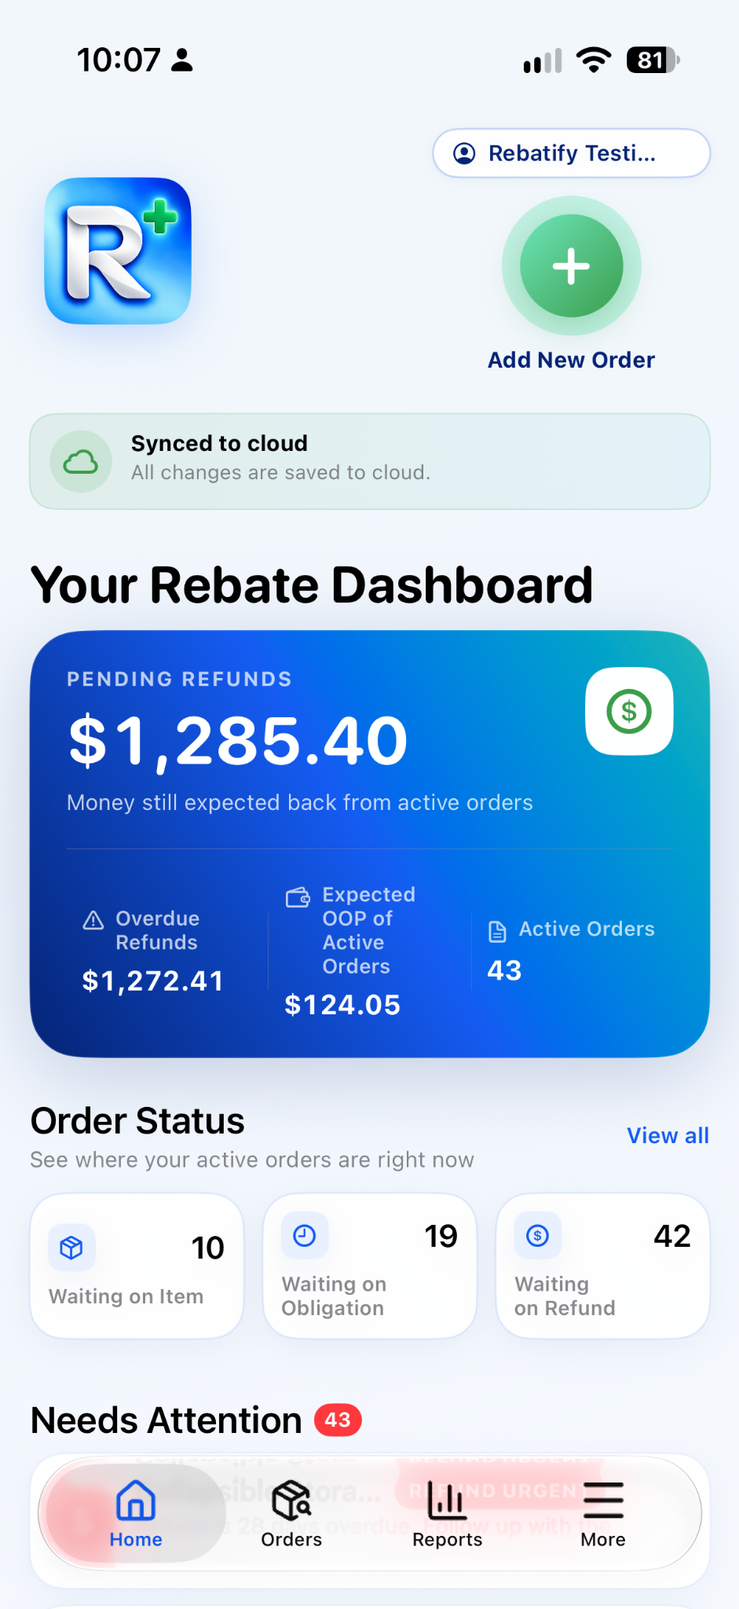
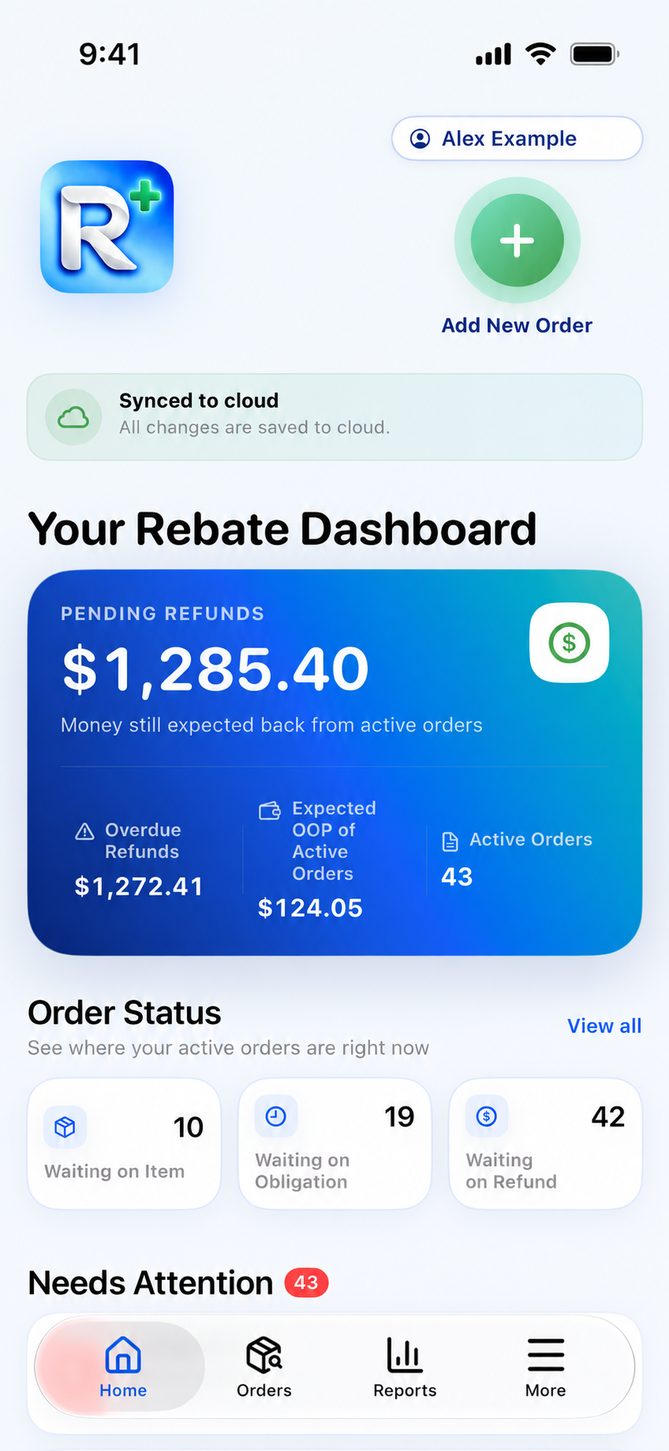
Add files via upload

diff --git a/beta-portal.html b/beta-portal.html
@@ -8,13 +8,13 @@
 <meta content="noindex,nofollow,noarchive,nosnippet" name="robots"/>
 <meta content="noindex,nofollow,noarchive,nosnippet" name="googlebot"/>
 <title>RebataTrack Beta Portal</title>
-<link href="app-icon.png?v=115" rel="icon"/><link href="apple-touch-icon.png?v=110" rel="apple-touch-icon"/><link href="favicon-32.png?v=110" rel="icon" sizes="32x32"/><link href="favicon-16.png?v=110" rel="icon" sizes="16x16"/>
+<link href="app-icon.png?v=118" rel="icon"/><link href="apple-touch-icon.png?v=110" rel="apple-touch-icon"/><link href="favicon-32.png?v=110" rel="icon" sizes="32x32"/><link href="favicon-16.png?v=110" rel="icon" sizes="16x16"/>
 <link href="styles.css?v=110" rel="stylesheet"/>
 </head>
 <body class="portal-body">
 <header class="portal-header">
 <div class="wrap portal-nav">
-<div class="portal-brand"><img alt="RebataTrack app icon" src="app-icon.png?v=115"/><div><strong>RebataTrack</strong><span>Beta Portal</span></div></div>
+<div class="portal-brand"><img alt="RebataTrack app icon" src="app-icon.png?v=118"/><div><strong>RebataTrack</strong><span>Beta Portal</span></div></div>
 <a class="portal-settings-link" href="beta-settings.html"><svg aria-hidden="true" class="portal-control-icon" viewBox="0 0 24 24"><circle cx="12" cy="12" r="3"/><path d="M19.4 15a1.8 1.8 0 0 0 .36 1.98l.06.06-2.78 2.78-.06-.06A1.8 1.8 0 0 0 15 19.4a1.8 1.8 0 0 0-1 .6 1.8 1.8 0 0 0-.4 1.2V21H9.6v-.08a1.8 1.8 0 0 0-.4-1.2 1.8 1.8 0 0 0-1-.6 1.8 1.8 0 0 0-1.98.36l-.06.06-2.78-2.78.06-.06A1.8 1.8 0 0 0 3.8 15a1.8 1.8 0 0 0-.6-1 1.8 1.8 0 0 0-1.2-.4H2V9.6h.08a1.8 1.8 0 0 0 1.2-.4 1.8 1.8 0 0 0 .6-1 1.8 1.8 0 0 0-.36-1.98l-.06-.06 2.78-2.78.06.06A1.8 1.8 0 0 0 8.2 3.8a1.8 1.8 0 0 0 1-.6 1.8 1.8 0 0 0 .4-1.2V2h4v.08a1.8 1.8 0 0 0 .4 1.2 1.8 1.8 0 0 0 1 .6 1.8 1.8 0 0 0 1.98-.36l.06-.06 2.78 2.78-.06.06A1.8 1.8 0 0 0 19.4 8.2a1.8 1.8 0 0 0 .6 1 1.8 1.8 0 0 0 1.2.4H21v4h-.08a1.8 1.8 0 0 0-1.2.4 1.8 1.8 0 0 0-.32 1Z"/></svg><span>Settings</span></a><button class="portal-logout" id="portalLogout" type="button"><svg aria-hidden="true" class="portal-control-icon" viewBox="0 0 24 24"><path d="M10 5H5a2 2 0 0 0-2 2v10a2 2 0 0 0 2 2h5"/><path d="m15 8 4 4-4 4M19 12H9"/></svg><span>Sign Out</span></button>
 </div>
 </header><nav aria-label="Beta Portal sections" class="portal-mobile-nav"><div class="wrap portal-mobile-nav-scroll">
@@ -83,25 +83,25 @@
 <section class="section portal-howto-section" id="how-to"><div class="wrap">
 <div class="portal-section-heading"><div><div class="kicker">How To</div><h2>Quick RebataTrack guides.</h2><p class="lead portal-howto-lead">Open only the guide you need.</p></div></div>
 <div class="portal-howto-accordion">
-<details class="portal-guide"><summary><span>Orders</span><strong>How do I add a new order?</strong></summary><div class="portal-guide-body"><img alt="RebataTrack Orders screen showing Add New Order and Record a Multi-Order Refund" src="orders-preview.png?v=115"/><ol><li>Open <strong>Orders</strong> from the bottom navigation.</li><li>Tap <strong>Add New Order</strong>.</li><li>Enter the purchase and rebate information, then save the order.</li></ol><p>The Orders screen is also where you can search existing orders and start a multi-order refund.</p></div></details>
-<details class="portal-guide"><summary><span>Order Details</span><strong>How do I review or update an order?</strong></summary><div class="portal-guide-body"><img alt="RebataTrack Order Details screen" src="order-detail-preview.png?v=115"/><ol><li>Open <strong>Orders</strong>.</li><li>Tap the order you want to review.</li><li>Use Order Details to review its timeline, amounts, status, and next action.</li></ol></div></details>
-<details class="portal-guide"><summary><span>Refunds</span><strong>How do I record a refund?</strong></summary><div class="portal-guide-body"><img alt="RebataTrack Record Refund screen" src="refund-preview.png?v=115"/><ol><li>Open the applicable order.</li><li>Scroll to <strong>Record Refund</strong>.</li><li>Enter the refund amount and optional transaction ID, then record it.</li></ol><p>If only part of the expected refund has arrived, RebataTrack keeps the remaining balance visible while the order workflow continues.</p></div></details>
-<details class="portal-guide"><summary><span>Reports · RebataTrack+</span><strong>How do I see what I have spent or received?</strong></summary><div class="portal-guide-body"><img alt="RebataTrack Reports screen" src="reports-plus-preview.png?v=115"/><ol><li>Tap <strong>Reports</strong>.</li><li>Choose the period or report you want to review.</li><li>Use the totals and breakdowns to understand spending, refunds, and Out Of Pocket Expense.</li></ol><p><strong>Reports is a RebataTrack+ perk.</strong> If you do not have RebataTrack+ active yet, activate it first to unlock the full Reports experience shown here.</p></div></details>
-<details class="portal-guide"><summary><span>Shared Profiles · RebataTrack+</span><strong>How do I use a shared profile?</strong></summary><div class="portal-guide-body"><img alt="RebataTrack Shared Profiles screen" src="sharing-plus-preview.png?v=115"/><ol><li>Open <strong>More</strong>.</li><li>Open <strong>Shared Profiles</strong>.</li><li>Create or join the appropriate shared profile, then follow the on-screen invitation flow.</li></ol><p><strong>Shared Profiles is a RebataTrack+ perk.</strong> You will need RebataTrack+ activated to use shared-profile features and invitations.</p></div></details>
+<details class="portal-guide"><summary><span>Orders</span><strong>How do I add a new order?</strong></summary><div class="portal-guide-body"><img alt="RebataTrack Orders screen showing Add New Order and Record a Multi-Order Refund" src="orders-preview.png?v=118"/><ol><li>Open <strong>Orders</strong> from the bottom navigation.</li><li>Tap <strong>Add New Order</strong>.</li><li>Enter the purchase and rebate information, then save the order.</li></ol><p>The Orders screen is also where you can search existing orders and start a multi-order refund.</p></div></details>
+<details class="portal-guide"><summary><span>Order Details</span><strong>How do I review or update an order?</strong></summary><div class="portal-guide-body"><img alt="RebataTrack Order Details screen" src="order-detail-preview.png?v=118"/><ol><li>Open <strong>Orders</strong>.</li><li>Tap the order you want to review.</li><li>Use Order Details to review its timeline, amounts, status, and next action.</li></ol></div></details>
+<details class="portal-guide"><summary><span>Refunds</span><strong>How do I record a refund?</strong></summary><div class="portal-guide-body"><img alt="RebataTrack Record Refund screen" src="refund-preview.png?v=118"/><ol><li>Open the applicable order.</li><li>Scroll to <strong>Record Refund</strong>.</li><li>Enter the refund amount and optional transaction ID, then record it.</li></ol><p>If only part of the expected refund has arrived, RebataTrack keeps the remaining balance visible while the order workflow continues.</p></div></details>
+<details class="portal-guide"><summary><span>Reports · RebataTrack+</span><strong>How do I see what I have spent or received?</strong></summary><div class="portal-guide-body"><img alt="RebataTrack Reports screen" src="reports-plus-preview.png?v=118"/><ol><li>Tap <strong>Reports</strong>.</li><li>Choose the period or report you want to review.</li><li>Use the totals and breakdowns to understand spending, refunds, and Out Of Pocket Expense.</li></ol><p><strong>Reports is a RebataTrack+ perk.</strong> If you do not have RebataTrack+ active yet, activate it first to unlock the full Reports experience shown here.</p></div></details>
+<details class="portal-guide"><summary><span>Shared Profiles · RebataTrack+</span><strong>How do I use a shared profile?</strong></summary><div class="portal-guide-body"><img alt="RebataTrack Shared Profiles screen" src="sharing-plus-preview.png?v=118"/><ol><li>Open <strong>More</strong>.</li><li>Open <strong>Shared Profiles</strong>.</li><li>Create or join the appropriate shared profile, then follow the on-screen invitation flow.</li></ol><p><strong>Shared Profiles is a RebataTrack+ perk.</strong> You will need RebataTrack+ activated to use shared-profile features and invitations.</p></div></details>
 <details class="portal-guide portal-upgrade-guide"><summary><span>RebataTrack+</span><strong>How do I upgrade to RebataTrack+?</strong></summary><div class="portal-guide-body">
 <p class="upgrade-guide-intro">Use the path that matches what you see in RebataTrack. The screenshots below are from the iPhone app; Android follows the same RebataTrack+ flow and completes the purchase through Google Play instead of the App Store.</p>
 <div class="upgrade-path-card">
 <div class="upgrade-path-copy"><span class="upgrade-path-badge">Trial still active</span><h3>Open More and choose View Plans.</h3><ol><li>Tap <strong>More</strong> in the bottom navigation.</li><li>Find the <strong>RebataTrack+</strong> card and tap <strong>View Plans</strong>.</li><li>Choose <strong>Monthly</strong> or <strong>Annual</strong>.</li><li>Confirm the purchase using the App Store or Google Play purchase sheet.</li></ol></div>
-<div class="upgrade-guide-gallery two"><figure><a href="rebatatrack-plus-view-plans.png?v=115" target="_blank" rel="noopener"><img alt="RebataTrack More screen with the RebataTrack+ card and View Plans button" src="rebatatrack-plus-view-plans.png?v=115"/></a><figcaption>More → RebataTrack+ → View Plans</figcaption></figure><figure><a href="rebatatrack-plus-plan-picker.png?v=115" target="_blank" rel="noopener"><img alt="RebataTrack+ upgrade screen showing monthly and annual subscription choices" src="rebatatrack-plus-plan-picker.png?v=115"/></a><figcaption>Choose the plan you want to purchase.</figcaption></figure></div>
+<div class="upgrade-guide-gallery two"><figure><a href="rebatatrack-plus-view-plans.png?v=118" target="_blank" rel="noopener"><img alt="RebataTrack More screen with the RebataTrack+ card and View Plans button" src="rebatatrack-plus-view-plans.png?v=118"/></a><figcaption>More → RebataTrack+ → View Plans</figcaption></figure><figure><a href="rebatatrack-plus-plan-picker.png?v=118" target="_blank" rel="noopener"><img alt="RebataTrack+ upgrade screen showing monthly and annual subscription choices" src="rebatatrack-plus-plan-picker.png?v=118"/></a><figcaption>Choose the plan you want to purchase.</figcaption></figure></div>
 </div>
 <div class="upgrade-path-card expired">
 <div class="upgrade-path-copy"><span class="upgrade-path-badge">Trial already ended</span><h3>Choose a plan directly from the trial-ended screen.</h3><ol><li>On <strong>Your RebataTrack trial has ended</strong>, scroll to <strong>Available RebataTrack+ Subscriptions</strong>.</li><li>Tap <strong>Monthly</strong> or <strong>Annual</strong>.</li><li>Confirm the purchase through the App Store or Google Play.</li><li>If you already purchased RebataTrack+ but access is not showing, use <strong>Restore Purchases</strong>.</li></ol></div>
-<div class="upgrade-guide-gallery single"><figure><a href="rebatatrack-plus-trial-ended.png?v=115" target="_blank" rel="noopener"><img alt="RebataTrack trial-ended screen showing available RebataTrack+ subscription choices" src="rebatatrack-plus-trial-ended.png?v=115"/></a><figcaption>When the trial has ended, the plan choices are available on the lock screen.</figcaption></figure></div>
+<div class="upgrade-guide-gallery single"><figure><a href="rebatatrack-plus-trial-ended.png?v=118" target="_blank" rel="noopener"><img alt="RebataTrack trial-ended screen showing available RebataTrack+ subscription choices" src="rebatatrack-plus-trial-ended.png?v=118"/></a><figcaption>When the trial has ended, the plan choices are available on the lock screen.</figcaption></figure></div>
 </div>
 <p class="upgrade-guide-note"><strong>Note:</strong> The App Store or Google Play confirmation screen is the authoritative place for the current price, billing period, and purchase confirmation.</p>
 </div></details>
 <details class="portal-guide"><summary><span>Android Beta Access</span><strong>How do I install RebataTrack from Google Play beta testing?</strong></summary><div class="portal-guide-body"><ol><li>On your Android phone, open the <strong>Google Play Store</strong>.</li><li>Tap your profile picture and make sure Google Play is using the <strong>Google Account that matches your approved RebataTrack Beta email</strong>.</li><li>After RebataTrack marks your testing access as sent, return to the <strong>Your Beta Build</strong> card near the top of this portal and tap <strong>Open Google Play Testing Link</strong>.</li><li>On Google’s testing page, choose the option to <strong>join / become a tester</strong>.</li><li>Open the Google Play listing from the confirmation page and install <strong>RebataTrack</strong>.</li><li>Open RebataTrack, sign in or create your app account with your approved beta email, then return here for required tasks and feedback.</li></ol><p>If Google says the test is unavailable, verify that both Google Play and the browser opening the link are using your approved Google Account. Do not submit a second beta application; use <strong>Help &amp; Feedback → Account / Access Problem</strong> if the Google Account email needs to be corrected.</p></div></details>
-<details class="portal-guide"><summary><span>More</span><strong>Where do I find account, reminder, and device settings?</strong></summary><div class="portal-guide-body"><img alt="RebataTrack More screen" src="more-preview.png?v=115"/><ol><li>Tap <strong>More</strong> in the bottom navigation.</li><li>Choose the section you need, such as accounts, archives, reminders, notifications, security, or device management.</li><li>Use Help &amp; Learning lower on the page for support, policies, and the guided walkthrough.</li></ol></div></details>
+<details class="portal-guide"><summary><span>More</span><strong>Where do I find account, reminder, and device settings?</strong></summary><div class="portal-guide-body"><img alt="RebataTrack More screen" src="more-preview.png?v=118"/><ol><li>Tap <strong>More</strong> in the bottom navigation.</li><li>Choose the section you need, such as accounts, archives, reminders, notifications, security, or device management.</li><li>Use Help &amp; Learning lower on the page for support, policies, and the guided walkthrough.</li></ol></div></details>
 </div></div></section>
 <section class="section" id="faq"><div class="wrap">
 <div class="portal-section-heading"><div><div class="kicker">FAQ</div><h2>Beta tester questions.</h2></div></div>

diff --git a/index.html b/index.html
@@ -7,26 +7,26 @@
 <meta content="#145cf2" name="theme-color"/>
 <meta content="RebataTrack organizes rebate purchases from order through refund, with workflow tracking, grouped refunds, cloud sync, reporting, and RebataTrack+ premium tools." name="description"/>
 <title>RebataTrack — Never lose track of what's coming back.</title>
-<link href="app-icon.png?v=115" rel="icon"/><link href="apple-touch-icon.png?v=97" rel="apple-touch-icon"/><link href="favicon-32.png?v=97" rel="icon" sizes="32x32"/><link href="favicon-16.png?v=97" rel="icon" sizes="16x16"/>
+<link href="app-icon.png?v=118" rel="icon"/><link href="apple-touch-icon.png?v=97" rel="apple-touch-icon"/><link href="favicon-32.png?v=97" rel="icon" sizes="32x32"/><link href="favicon-16.png?v=97" rel="icon" sizes="16x16"/>
 <link href="styles.css?v=97" rel="stylesheet"/>
 </head>
 <body>
 <header><div class="wrap nav">
-<a class="brand" href="index.html"><img alt="RebataTrack app icon" src="app-icon.png?v=115"/><span>RebataTrack</span></a>
+<a class="brand" href="index.html"><img alt="RebataTrack app icon" src="app-icon.png?v=118"/><span>RebataTrack</span></a>
 <nav><a href="#features">Features</a><a href="#plus"><span class="rebatify-plus-text">RebataTrack+</span></a><a href="https://rebatatrack.web.app/" title="Open the RebataTrack Web App">Web App</a><a href="#screens">App Preview</a><a href="support.html">Support</a><a href="privacy.html">Privacy</a><a href="terms.html">Terms</a></nav>
 </div></header>
 <main>
 <section class="hero"><div class="wrap hero-grid">
 <div>
-<div class="hero-brand"><img alt="RebataTrack app icon" src="app-icon.png?v=115"/><div class="hero-brand-copy"><div class="hero-brand-title">RebataTrack</div><div class="hero-brand-subtitle">Never lose track of what's coming back.</div></div></div>
+<div class="hero-brand"><img alt="RebataTrack app icon" src="app-icon.png?v=118"/><div class="hero-brand-copy"><div class="hero-brand-title">RebataTrack</div><div class="hero-brand-subtitle">Never lose track of what's coming back.</div></div></div>
 <span class="eyebrow"><span class="plus-dot"></span> Built for real rebate workflows</span>
 <h1>Never lose track of what's coming back.</h1>
 <p class="lead">RebataTrack gives rebate shoppers one organized place to follow every purchase from the day it is ordered through delivery, required obligations, refund tracking, order completion, follow up, and an order archive list.</p>
 <div class="cta-row"><a class="btn primary" href="#features">Explore RebataTrack</a><a class="btn plus plus-cta" href="#plus"><span>See</span><span class="rebatify-plus-text">RebataTrack+</span><span>Features</span></a><a class="btn" href="support.html">Get Support</a></div>
 </div>
 <div aria-label="RebataTrack app preview screens" class="bubble-stage">
-<div class="bubble one"><div class="phone-frame"><img alt="RebataTrack Home dashboard screenshot" src="home-preview.png?v=115"/></div></div>
-<div class="bubble two"><div class="phone-frame"><img alt="RebataTrack Order Detail screenshot" src="order-detail-preview.png?v=115"/></div></div>
+<div class="bubble one"><div class="phone-frame"><img alt="RebataTrack Home dashboard screenshot" src="home-preview.png?v=118"/></div></div>
+<div class="bubble two"><div class="phone-frame"><img alt="RebataTrack Order Detail screenshot" src="order-detail-preview.png?v=118"/></div></div>
 <div class="float-chip a">● Pending refunds at a glance</div>
 <div class="float-chip b">✓ Workflow + refund progress together</div>
 </div>
@@ -200,14 +200,14 @@
 <section class="section app-preview-section" id="screens"><div class="wrap">
 <div class="app-preview-heading"><div class="kicker">App preview</div><h2>Built to look as organized as the workflow feels.</h2></div>
 <div class="screenshot-grid">
-<article class="screen-card"><span class="tier-badge core">CORE</span><div class="phone-shot"><img alt="RebataTrack Home dashboard screenshot" src="home-preview.png?v=115"/></div><h3>Home dashboard</h3><p>Pending refunds, Overdue Refunds, active-order Out Of Pocket Expense, status counts, items needing attention, and recent orders.</p></article>
-<article class="screen-card"><span class="tier-badge core">CORE</span><div class="phone-shot"><img alt="RebataTrack Orders screenshot" src="orders-preview.png?v=115"/></div><h3>Orders &amp; Action Center</h3><p>Search, workflow filters, action-required items, in-progress orders, ready-to-archive items, and Multi-Order Refund access.</p></article>
-<article class="screen-card"><span class="tier-badge core">CORE</span><div class="phone-shot"><img alt="RebataTrack Order Detail screenshot" src="order-detail-preview.png?v=115"/></div><h3>Order detail</h3><p>Workflow steps and financials stay together, including expected vs. actual Out Of Pocket Expense, calculated refund timing, refund transactions, and partial-refund completion.</p></article>
-<article class="screen-card"><span class="tier-badge core">CORE</span><div class="phone-shot"><img alt="RebataTrack Record Refund screenshot" src="refund-preview.png?v=115"/></div><h3>Record refunds</h3><p>Record refund transactions as they arrive, keep partial-refund progress visible, and see any remaining unrecovered balance without losing the order workflow.</p></article>
-<article class="screen-card"><span class="tier-badge plus"><span class="rebatify-plus-text">RebataTrack+</span></span><div class="phone-shot"><img alt="RebataTrack Reports screenshot" src="reports-plus-preview.png?v=115"/></div><h3>Financial Intelligence</h3><p>Advanced metrics and Report Library views for Out Of Pocket Expense, Refund Aging, Source Performance, Shopping/Ordering Accounts, and Refund Methods.</p></article>
-<article class="screen-card"><span class="tier-badge core">CORE</span><div class="phone-shot"><img alt="RebataTrack More screen screenshot" src="more-preview.png?v=115"/></div><h3>Organized settings</h3><p>Sources, shopping accounts, refund accounts, archives, reminders, notifications, security, and device management stay organized in one place.</p></article>
-<article class="screen-card"><span class="tier-badge plus"><span class="rebatify-plus-text">RebataTrack+</span></span><div class="phone-shot"><img alt="RebataTrack Shared Profiles screenshot" src="sharing-plus-preview.png?v=115"/></div><h3>Shared profiles</h3><p>Up to three users share one membership while each person retains separate RebataTrack data and independent device protection.</p></article>
-<article class="screen-card"><span class="tier-badge plus"><span class="rebatify-plus-text">RebataTrack+</span></span><div class="phone-shot"><img alt="RebataTrack Help and Learning screen screenshot" src="help-learning-preview.png?v=115"/></div><h3>Help &amp; learning</h3><p>Replay the guided walkthrough, reach support and policy pages, review upcoming features, and manage <span class="rebatify-plus-text">RebataTrack+</span> from inside the app.</p></article>
+<article class="screen-card"><span class="tier-badge core">CORE</span><div class="phone-shot"><img alt="RebataTrack Home dashboard screenshot" src="home-preview.png?v=118"/></div><h3>Home dashboard</h3><p>Pending refunds, Overdue Refunds, active-order Out Of Pocket Expense, status counts, items needing attention, and recent orders.</p></article>
+<article class="screen-card"><span class="tier-badge core">CORE</span><div class="phone-shot"><img alt="RebataTrack Orders screenshot" src="orders-preview.png?v=118"/></div><h3>Orders &amp; Action Center</h3><p>Search, workflow filters, action-required items, in-progress orders, ready-to-archive items, and Multi-Order Refund access.</p></article>
+<article class="screen-card"><span class="tier-badge core">CORE</span><div class="phone-shot"><img alt="RebataTrack Order Detail screenshot" src="order-detail-preview.png?v=118"/></div><h3>Order detail</h3><p>Workflow steps and financials stay together, including expected vs. actual Out Of Pocket Expense, calculated refund timing, refund transactions, and partial-refund completion.</p></article>
+<article class="screen-card"><span class="tier-badge core">CORE</span><div class="phone-shot"><img alt="RebataTrack Record Refund screenshot" src="refund-preview.png?v=118"/></div><h3>Record refunds</h3><p>Record refund transactions as they arrive, keep partial-refund progress visible, and see any remaining unrecovered balance without losing the order workflow.</p></article>
+<article class="screen-card"><span class="tier-badge plus"><span class="rebatify-plus-text">RebataTrack+</span></span><div class="phone-shot"><img alt="RebataTrack Reports screenshot" src="reports-plus-preview.png?v=118"/></div><h3>Financial Intelligence</h3><p>Advanced metrics and Report Library views for Out Of Pocket Expense, Refund Aging, Source Performance, Shopping/Ordering Accounts, and Refund Methods.</p></article>
+<article class="screen-card"><span class="tier-badge core">CORE</span><div class="phone-shot"><img alt="RebataTrack More screen screenshot" src="more-preview.png?v=118"/></div><h3>Organized settings</h3><p>Sources, shopping accounts, refund accounts, archives, reminders, notifications, security, and device management stay organized in one place.</p></article>
+<article class="screen-card"><span class="tier-badge plus"><span class="rebatify-plus-text">RebataTrack+</span></span><div class="phone-shot"><img alt="RebataTrack Shared Profiles screenshot" src="sharing-plus-preview.png?v=118"/></div><h3>Shared profiles</h3><p>Up to three users share one membership while each person retains separate RebataTrack data and independent device protection.</p></article>
+<article class="screen-card"><span class="tier-badge plus"><span class="rebatify-plus-text">RebataTrack+</span></span><div class="phone-shot"><img alt="RebataTrack Help and Learning screen screenshot" src="help-learning-preview.png?v=118"/></div><h3>Help &amp; learning</h3><p>Replay the guided walkthrough, reach support and policy pages, review upcoming features, and manage <span class="rebatify-plus-text">RebataTrack+</span> from inside the app.</p></article>
 </div>
 </div></section>
 <section class="section alt"><div class="wrap grid2">

diff --git a/support.html b/support.html
@@ -1,8 +1,8 @@
 <!DOCTYPE html>
 
-<html lang="en"><head><meta charset="utf-8"/><meta content="width=device-width,initial-scale=1" name="viewport"/><meta content="#145cf2" name="theme-color"/><meta content="Help, FAQs, and account support for the RebataTrack rebate tracking app and RebataTrack+." name="description"/><title>Support — RebataTrack</title><link href="app-icon.png?v=115" rel="icon"/><link href="apple-touch-icon.png?v=97" rel="apple-touch-icon"/><link href="favicon-32.png?v=97" rel="icon" sizes="32x32"/><link href="favicon-16.png?v=97" rel="icon" sizes="16x16"/><link href="styles.css?v=108" rel="stylesheet"/></head>
+<html lang="en"><head><meta charset="utf-8"/><meta content="width=device-width,initial-scale=1" name="viewport"/><meta content="#145cf2" name="theme-color"/><meta content="Help, FAQs, and account support for the RebataTrack rebate tracking app and RebataTrack+." name="description"/><title>Support — RebataTrack</title><link href="app-icon.png?v=118" rel="icon"/><link href="apple-touch-icon.png?v=97" rel="apple-touch-icon"/><link href="favicon-32.png?v=97" rel="icon" sizes="32x32"/><link href="favicon-16.png?v=97" rel="icon" sizes="16x16"/><link href="styles.css?v=108" rel="stylesheet"/></head>
 <body>
-<header><div class="wrap nav"><a class="brand" href="index.html"><img alt="RebataTrack app icon" src="app-icon.png?v=115"/><span>RebataTrack</span></a><nav><a href="index.html#features">Features</a><a href="index.html#plus"><span class="rebatify-plus-text">RebataTrack+</span></a><a href="https://rebatatrack.web.app/" title="Open the RebataTrack Web App">Web App</a><a class="nav-current" aria-current="page" href="support.html">Support</a><a href="privacy.html">Privacy</a><a href="terms.html">Terms</a></nav></div></header>
+<header><div class="wrap nav"><a class="brand" href="index.html"><img alt="RebataTrack app icon" src="app-icon.png?v=118"/><span>RebataTrack</span></a><nav><a href="index.html#features">Features</a><a href="index.html#plus"><span class="rebatify-plus-text">RebataTrack+</span></a><a href="https://rebatatrack.web.app/" title="Open the RebataTrack Web App">Web App</a><a class="nav-current" aria-current="page" href="support.html">Support</a><a href="privacy.html">Privacy</a><a href="terms.html">Terms</a></nav></div></header>
 <main>
 <section class="page-head"><div class="wrap"><span class="eyebrow"><span class="plus-dot"></span> RebataTrack Support</span><h1>Help with RebataTrack.</h1><p class="lead">Find answers about orders, refunds, account access, shared profiles, cloud sync, device security, and <span class="rebatify-plus-text">RebataTrack+</span>.</p></div></section>
 <section class="wrap">
@@ -25,7 +25,7 @@
 <details><summary>What is included in the 14-day trial?</summary><p>The trial provides <strong>basic app access for 14 days</strong>. <span class="rebatify-plus-text">RebataTrack+</span> premium features—advanced reporting, premium reminders/notifications, and shared profiles—remain locked during the basic-access trial. When the trial ends, <span class="rebatify-plus-text">RebataTrack+</span> is required to continue using the full app.</p></details>
 <details><summary>What happens to my data when the trial ends?</summary><p>Your account is not treated as though the data disappeared. The app provides a basic CSV export option from the trial-ended screen containing basic order information such as order number, date, source, item, order amount, refund amount, and basic statuses. <span class="rebatify-plus-text">RebataTrack+</span> restores continued app access and premium reporting/export capability.</p></details>
 <details><summary>What does <span class="rebatify-plus-text">RebataTrack+</span> add?</summary><p><span class="rebatify-plus-text">RebataTrack+</span> provides continued app access after the trial plus advanced Financial Intelligence reporting, report-library views, custom workflow reminder timing, notification controls, shared membership for up to three users/profiles, and web access from a supported browser. Each profile keeps separate orders and setup data.</p></details>
-<details class="public-upgrade-faq"><summary>How do I upgrade to <span class="rebatify-plus-text">RebataTrack+</span>?</summary><div class="upgrade-faq-body"><p>If your 14-day trial is still active, open <strong>More</strong>, find the <strong>RebataTrack+</strong> card, tap <strong>View Plans</strong>, then choose Monthly or Annual and confirm the purchase through the App Store or Google Play. If the trial has already ended, the same plan choices appear directly on the trial-ended screen.</p><div class="upgrade-guide-gallery public"><figure><a href="rebatatrack-plus-view-plans.png?v=115" target="_blank" rel="noopener"><img alt="RebataTrack More screen showing View Plans on the RebataTrack+ card" src="rebatatrack-plus-view-plans.png?v=115"/></a><figcaption>1. While your trial is active, tap View Plans.</figcaption></figure><figure><a href="rebatatrack-plus-plan-picker.png?v=115" target="_blank" rel="noopener"><img alt="RebataTrack+ plan selection screen with monthly and annual subscriptions" src="rebatatrack-plus-plan-picker.png?v=115"/></a><figcaption>2. Choose Monthly or Annual and confirm with your app store.</figcaption></figure><figure><a href="rebatatrack-plus-trial-ended.png?v=115" target="_blank" rel="noopener"><img alt="RebataTrack trial-ended screen with subscription choices" src="rebatatrack-plus-trial-ended.png?v=115"/></a><figcaption>If your trial has ended, choose a plan from this screen.</figcaption></figure></div><p class="upgrade-guide-note"><strong>iPhone and Android:</strong> These screenshots show iPhone. Android follows the same RebataTrack+ flow, with purchase confirmation through Google Play. Current pricing and billing details are confirmed by the App Store or Google Play before purchase.</p></div></details>
+<details class="public-upgrade-faq"><summary>How do I upgrade to <span class="rebatify-plus-text">RebataTrack+</span>?</summary><div class="upgrade-faq-body"><p>If your 14-day trial is still active, open <strong>More</strong>, find the <strong>RebataTrack+</strong> card, tap <strong>View Plans</strong>, then choose Monthly or Annual and confirm the purchase through the App Store or Google Play. If the trial has already ended, the same plan choices appear directly on the trial-ended screen.</p><div class="upgrade-guide-gallery public"><figure><a href="rebatatrack-plus-view-plans.png?v=118" target="_blank" rel="noopener"><img alt="RebataTrack More screen showing View Plans on the RebataTrack+ card" src="rebatatrack-plus-view-plans.png?v=118"/></a><figcaption>1. While your trial is active, tap View Plans.</figcaption></figure><figure><a href="rebatatrack-plus-plan-picker.png?v=118" target="_blank" rel="noopener"><img alt="RebataTrack+ plan selection screen with monthly and annual subscriptions" src="rebatatrack-plus-plan-picker.png?v=118"/></a><figcaption>2. Choose Monthly or Annual and confirm with your app store.</figcaption></figure><figure><a href="rebatatrack-plus-trial-ended.png?v=118" target="_blank" rel="noopener"><img alt="RebataTrack trial-ended screen with subscription choices" src="rebatatrack-plus-trial-ended.png?v=118"/></a><figcaption>If your trial has ended, choose a plan from this screen.</figcaption></figure></div><p class="upgrade-guide-note"><strong>iPhone and Android:</strong> These screenshots show iPhone. Android follows the same RebataTrack+ flow, with purchase confirmation through Google Play. Current pricing and billing details are confirmed by the App Store or Google Play before purchase.</p></div></details>
 <details><summary>Can I use RebataTrack on the web?</summary><p>Yes. Web access is included with <span class="rebatify-plus-text">RebataTrack+</span>. You can access RebataTrack from a supported web browser in addition to your iPhone. Your RebataTrack account stays synchronized across authorized clients, and web access counts as one of the trusted device/client slots for that login.</p></details>
 <details><summary>How do shared <span class="rebatify-plus-text">RebataTrack+</span> profiles work?</summary><p>A <span class="rebatify-plus-text">RebataTrack+</span> shared membership supports up to <strong>3 users</strong>. The owner generates an invite code, and the other person signs in with their own RebataTrack account before joining. Switching profiles changes the RebataTrack data view; each profile keeps separate orders, sources, shopping/ordering accounts, refund accounts, reports, and setup data. Invite codes expire after 7 days.</p></details>
 <details><summary>Are device restrictions shared between <span class="rebatify-plus-text">RebataTrack+</span> members?</summary><p>No. Trusted-device protection stays tied to each person’s own login account. Device protection is tied to each person’s own login. Standard access uses one primary-device slot. With <span class="rebatify-plus-text">RebataTrack+</span>, each login can use up to 3 trusted devices/clients total, with web access counting as one of those slots. Replacement protection uses a 24-hour cooldown and 48-hour takeover/promotion timing when applicable.</p></details>

diff --git a/BUILD118_NOTES.md b/BUILD118_NOTES.md
@@ -1,0 +1,38 @@
+# RebataTrack Website Build 118
+
+## Summary
+Build 118 refreshes the public website and beta portal screenshot assets to use the newly standardized RebataTrack iPhone screenshots.
+
+## Changes in Build 118
+- Replaced the Home dashboard screenshot with the newly approved standardized version.
+- Replaced the Orders screenshot with the newly approved standardized version.
+- Replaced the Order Detail screenshot with the newly approved standardized version.
+- Replaced the Record Refund screenshot with the newly approved standardized version.
+- Replaced the Reports / Financial Intelligence screenshot with the newly approved standardized version.
+- Replaced the Shared Profiles screenshot with the newly approved standardized version.
+- Replaced the More screenshot with the newly approved standardized version.
+- Updated the Help & Learning screenshot to use the approved More3 image.
+- Updated the RebataTrack+ View Plans screenshot to use the approved More3 image.
+- Replaced the RebataTrack+ plan picker screenshot with the newly approved standardized version.
+- Replaced the supplemental Order Information screenshot asset with the newly approved standardized version.
+- Updated HTML cache-busting query strings for refreshed screenshot assets to `v=118`.
+
+## Files Updated
+- index.html
+- support.html
+- beta-portal.html
+- home-preview.png
+- orders-preview.png
+- order-detail-preview.png
+- refund-preview.png
+- reports-plus-preview.png
+- more-preview.png
+- sharing-plus-preview.png
+- help-learning-preview.png
+- rebatatrack-plus-view-plans.png
+- rebatatrack-plus-plan-picker.png
+- order-info-preview.png
+
+## Notes
+- `rebatatrack-plus-trial-ended.png` was left unchanged in this build.
+- Smart notifications assets and site functionality were not otherwise changed.
